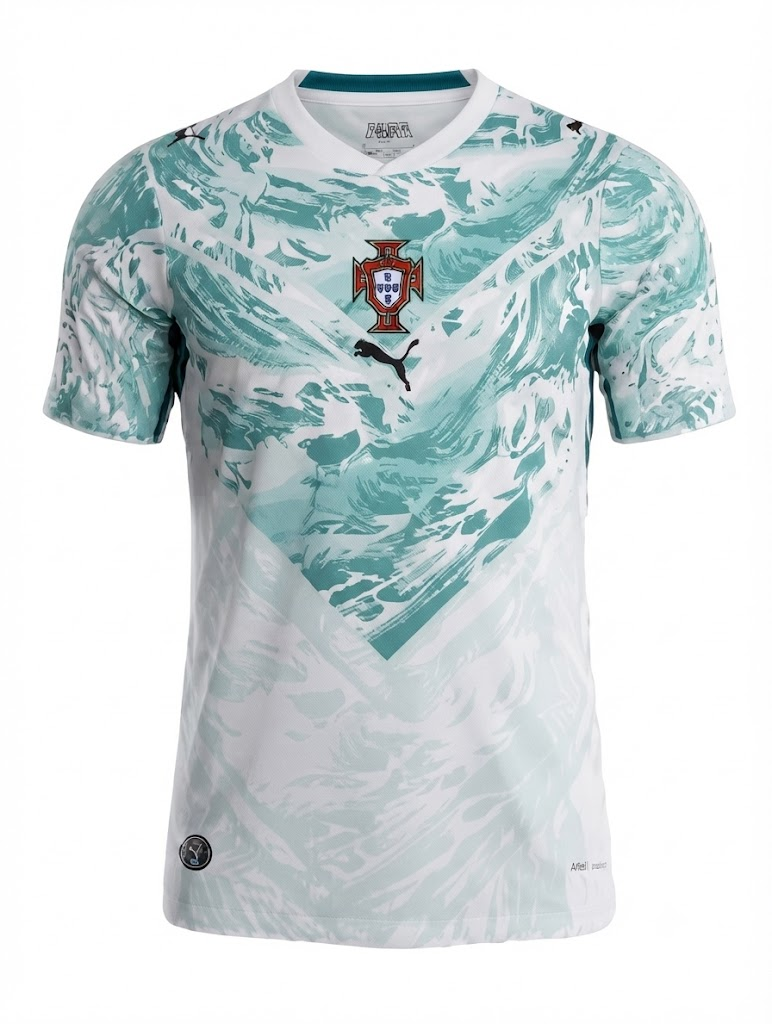
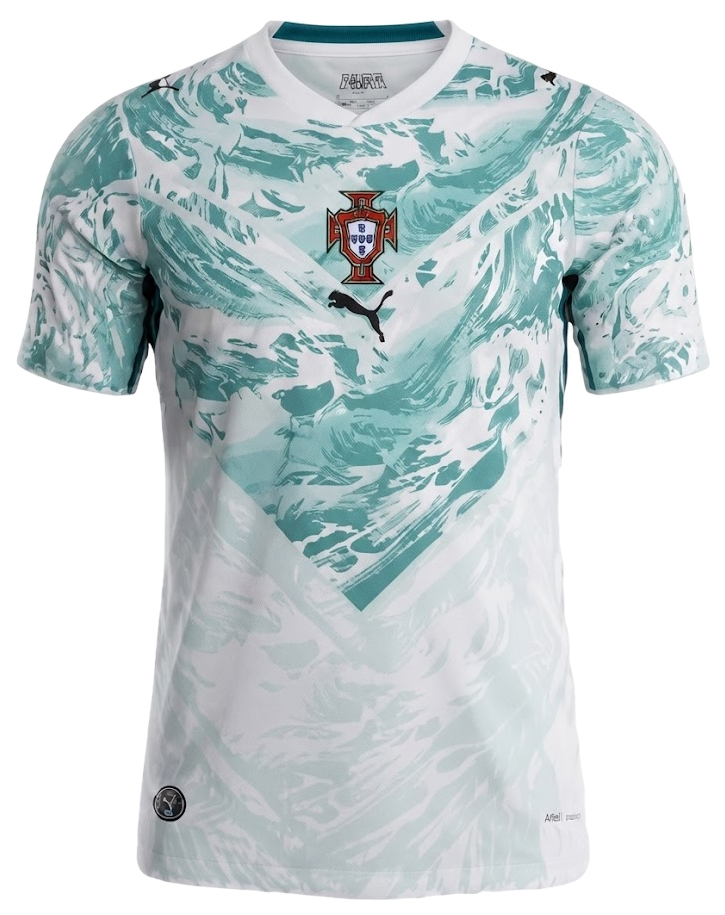
Remove white background from all 8 Portuguese jersey photos
The photos' own near-white background (#f9-#ff) didn't match the
site's card background color (--paper, a warm cream #f4f2e9), so
every Portuguese product card showed a visible seam — the photo's
white square sitting inside the card's cream padding. Ran a
flood-fill background removal (from the image edges only, so white
areas *inside* the jersey design — collars, stripes — stay intact)
plus a light feather to avoid jagged cutout edges, then tight-cropped
each to its content. Transparent PNGs now blend cleanly with the
card's --paper background.

diff --git a/js/data.js b/js/data.js
@@ -159,27 +159,27 @@
 
     // Seleção Portugal
     P('por-alt-24', 'selecao-portugal', 'alternativa', 'Azul de Portugal', '2024', 49.9, ['S','M','L'], 'Novo', 'disponivel', '#7fd9c4', '#0b4a41',
-      { photos: ['img/selecao-portugal-alt.png?v=2'] }),
+      { photos: ['img/selecao-portugal-alt.png?v=3'] }),
     P('por-principal-24', 'selecao-portugal', 'principal', 'Vermelha de Portugal', '2024', 52.9, ['S','M','L'], 'Novo', 'disponivel', '#a01414', '#f4f3ec',
-      { photos: ['img/selecao-portugal-principal.png?v=2'] }),
+      { photos: ['img/selecao-portugal-principal.png?v=3'] }),
 
     // Benfica
     P('ben-principal-24', 'benfica', 'principal', 'Classica do Benfica', '2024', 49.9, ['S','M','L'], 'Novo', 'disponivel', '#d4001f', '#f4f3ec',
-      { photos: ['img/benfica-principal.png'] }),
+      { photos: ['img/benfica-principal.png?v=2'] }),
     P('ben-extra-24', 'benfica', 'extra', 'Diferenciada do Benfica', '2024', 50.9, ['S','M','L'], null, 'disponivel', '#f4f3ec', '#d4001f',
-      { photos: ['img/benfica-extra.png?v=2'] }),
+      { photos: ['img/benfica-extra.png?v=3'] }),
 
     // Sporting
     P('spo-principal-24', 'sporting', 'principal', 'Classica do Sporting', '2024', 53.9, ['S','M','L'], 'Novo', 'disponivel', '#0d5c34', '#f4f3ec',
-      { photos: ['img/sporting-principal.png?v=2'] }),
+      { photos: ['img/sporting-principal.png?v=3'] }),
     P('spo-alt-24', 'sporting', 'alternativa', 'Branca do Sporting', '2024', 53.9, ['S','M','L'], null, 'disponivel', '#f4f3ec', '#0d5c34',
-      { photos: ['img/sporting-alt.png?v=2'] }),
+      { photos: ['img/sporting-alt.png?v=3'] }),
 
     // FC Porto
     P('fcp-principal-24', 'porto', 'principal', 'Classica do Porto', '2024', 52.9, ['S','M','L'], 'Novo', 'disponivel', '#0b3d91', '#f4f3ec',
-      { photos: ['img/porto-principal.png'] }),
+      { photos: ['img/porto-principal.png?v=2'] }),
     P('fcp-extra-24', 'porto', 'extra', 'Diferenciada do Porto', '2024', 49.9, ['S','M','L'], null, 'disponivel', '#f4f3ec', '#0b3d91',
-      { photos: ['img/porto-extra.png'] }),
+      { photos: ['img/porto-extra.png?v=2'] }),
   ];
 
   // "Camisa mais procurada" — escolha automática que muda uma vez por

diff --git a/index.html b/index.html
@@ -1158,7 +1158,7 @@
 <div id="flash-popup-root"></div>
 <div id="promo-popup-root"></div>
 
-<script src="js/data.js?v=68"></script>
+<script src="js/data.js?v=69"></script>
 <script src="js/main.js?v=49"></script>
 <script src="js/flash-offer.js?v=5"></script>
 <script src="js/promo.js?v=1"></script>

diff --git a/produto.html b/produto.html
@@ -1031,7 +1031,7 @@
 <div id="flash-popup-root"></div>
 <div id="promo-popup-root"></div>
 
-<script src="js/data.js?v=68"></script>
+<script src="js/data.js?v=69"></script>
 <script src="js/main.js?v=49"></script>
 <script src="js/flash-offer.js?v=5"></script>
 <script src="js/promo.js?v=1"></script>

diff --git a/equipa.html b/equipa.html
@@ -939,7 +939,7 @@
 <div id="flash-popup-root"></div>
 <div id="promo-popup-root"></div>
 
-<script src="js/data.js?v=68"></script>
+<script src="js/data.js?v=69"></script>
 <script src="js/main.js?v=49"></script>
 <script src="js/flash-offer.js?v=5"></script>
 <script src="js/promo.js?v=1"></script>

diff --git a/admin.html b/admin.html
@@ -77,7 +77,7 @@
   </section>
 </div>
 
-<script src="js/data.js?v=68"></script>
+<script src="js/data.js?v=69"></script>
 <script src="js/admin.js?v=7"></script>
 </body>
 </html>
